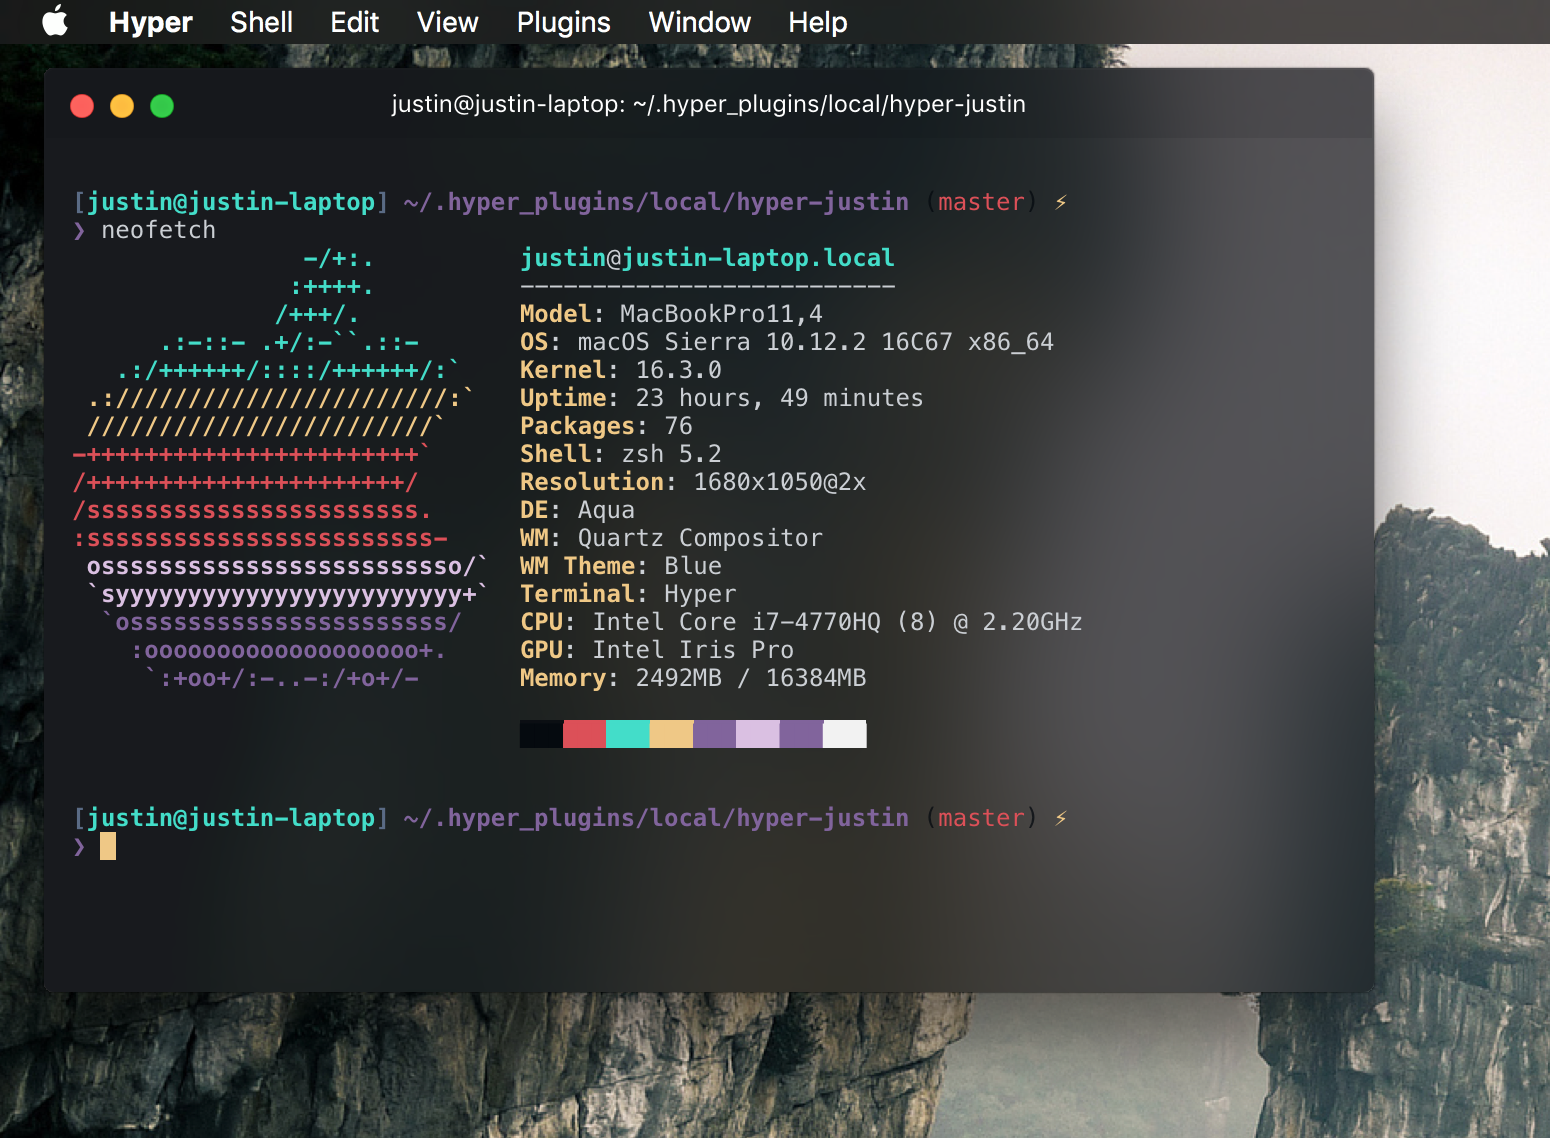
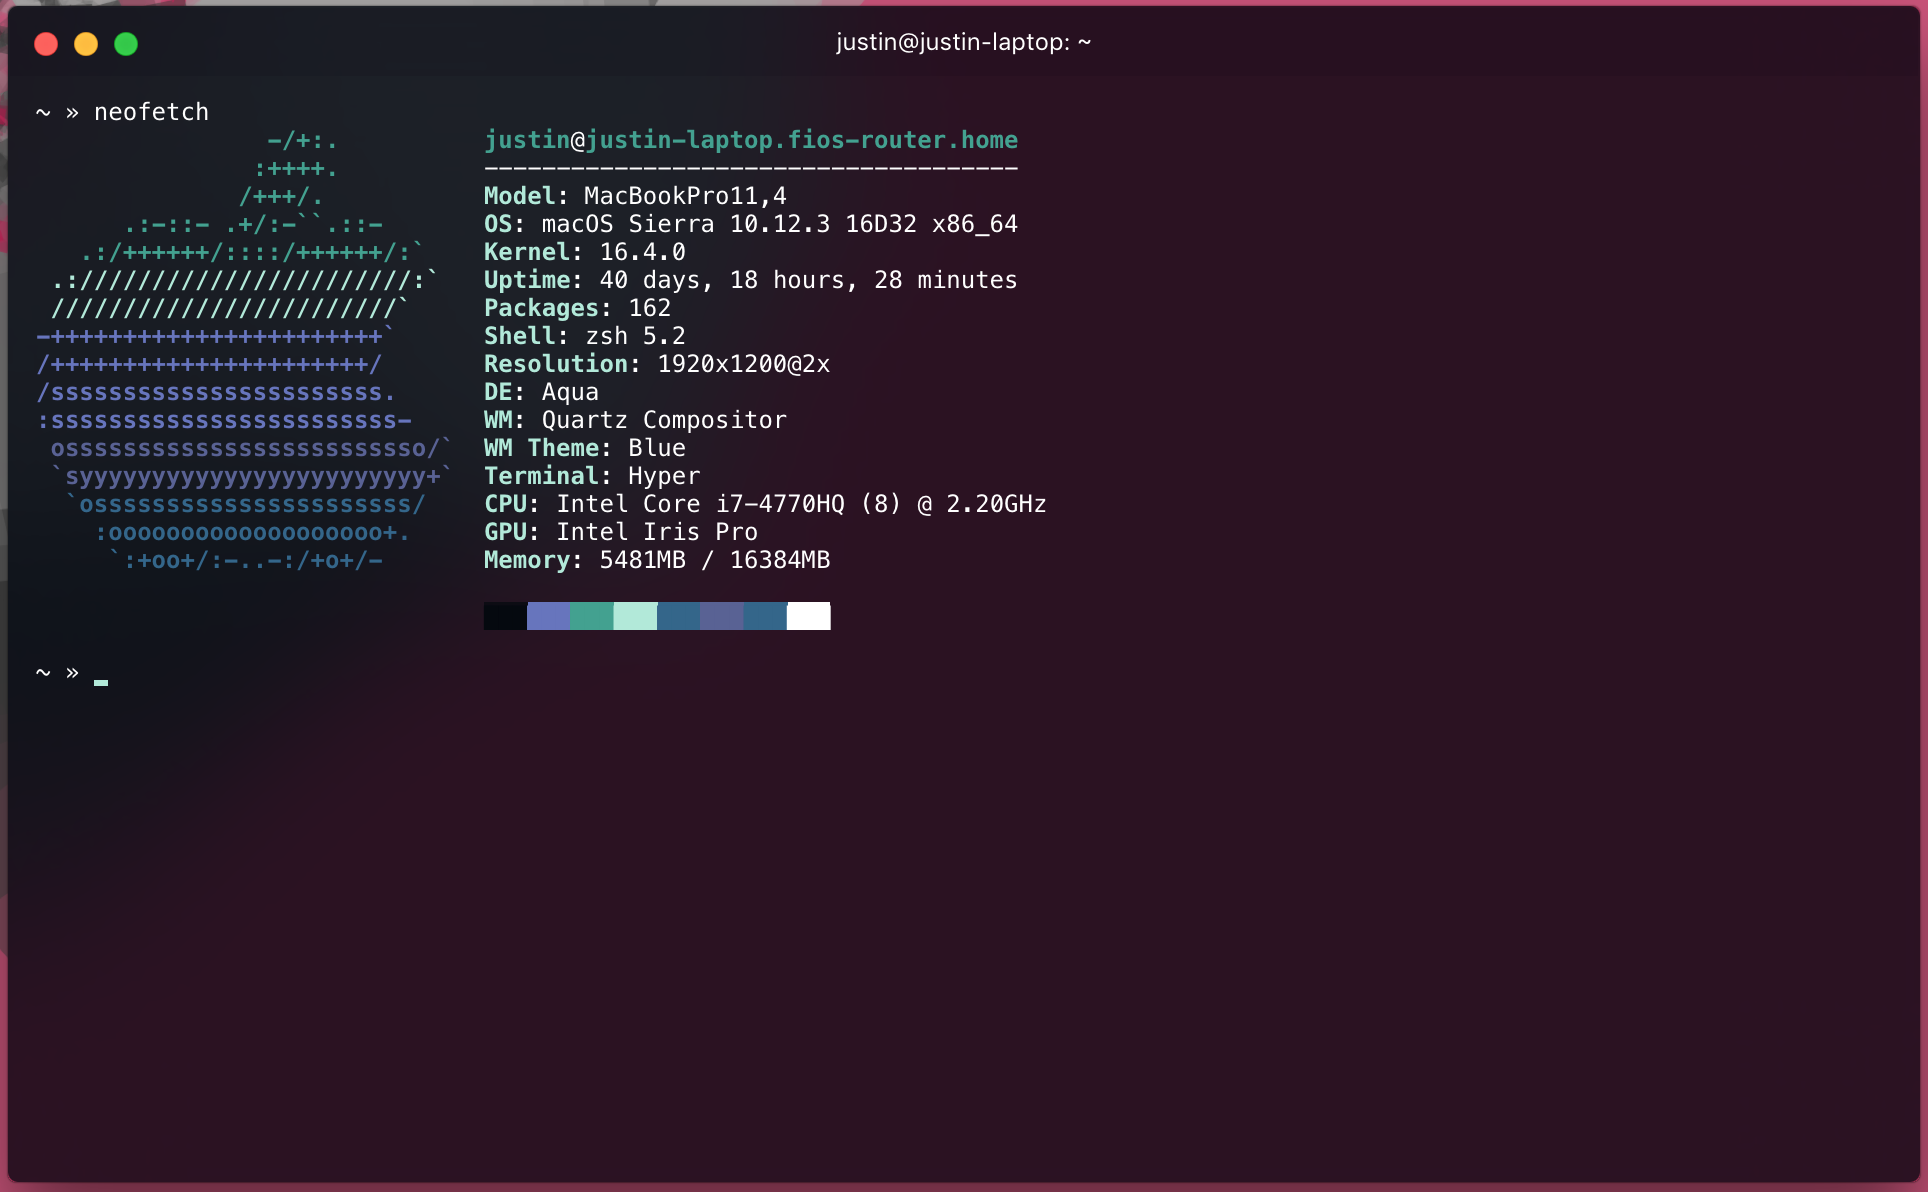
Change color scheme

diff --git a/index.js b/index.js
@@ -1,15 +1,15 @@
 // Constants
 const backgroundColor = 'rgba(4, 9, 15, 0.75)';
-const foregroundColor = '#cbcfd4';
+const foregroundColor = '#ffffff';
 
 // Colors
-const RED = '#de4f55';
-const GREEN = '#38dec9';
-const YELLOW = '#f0c981';
-const BLUE = '#81629e';
-const MAGENTA = '#dbbfe3';
-const LIGHT_GRAY = '#f2f2f2';
-const DARK_GRAY = '#596a86';
+const RED = '#6673bf';
+const GREEN = '#3ea290';
+const YELLOW = '#b0ead9';
+const BLUE = '#31658c';
+const MAGENTA = '#596196';
+const LIGHT_GRAY = '#ffffff';
+const DARK_GRAY = '#1b1b1b';
 
 // Mapped Colors
 const colors = {
@@ -42,6 +42,7 @@ exports.decorateConfig = (config) => {
     foregroundColor,
     backgroundColor,
     borderColor,
+    cursorShape: "UNDERLINE",
     cursorColor,
     colors,
     css: `
